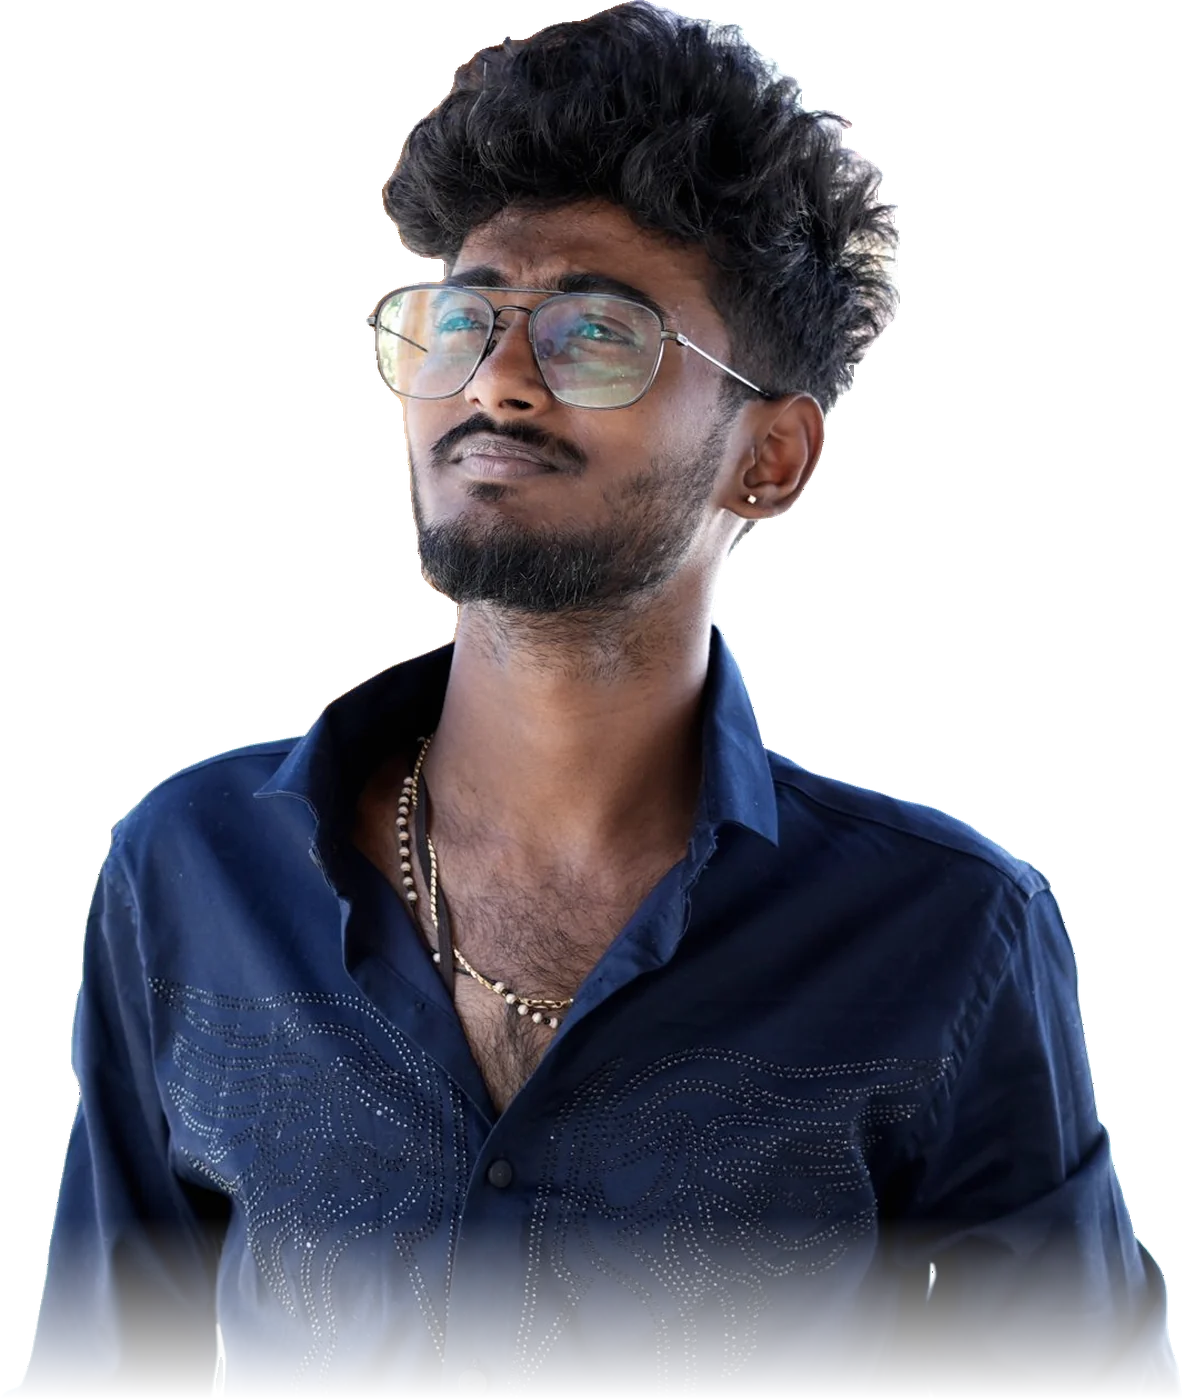
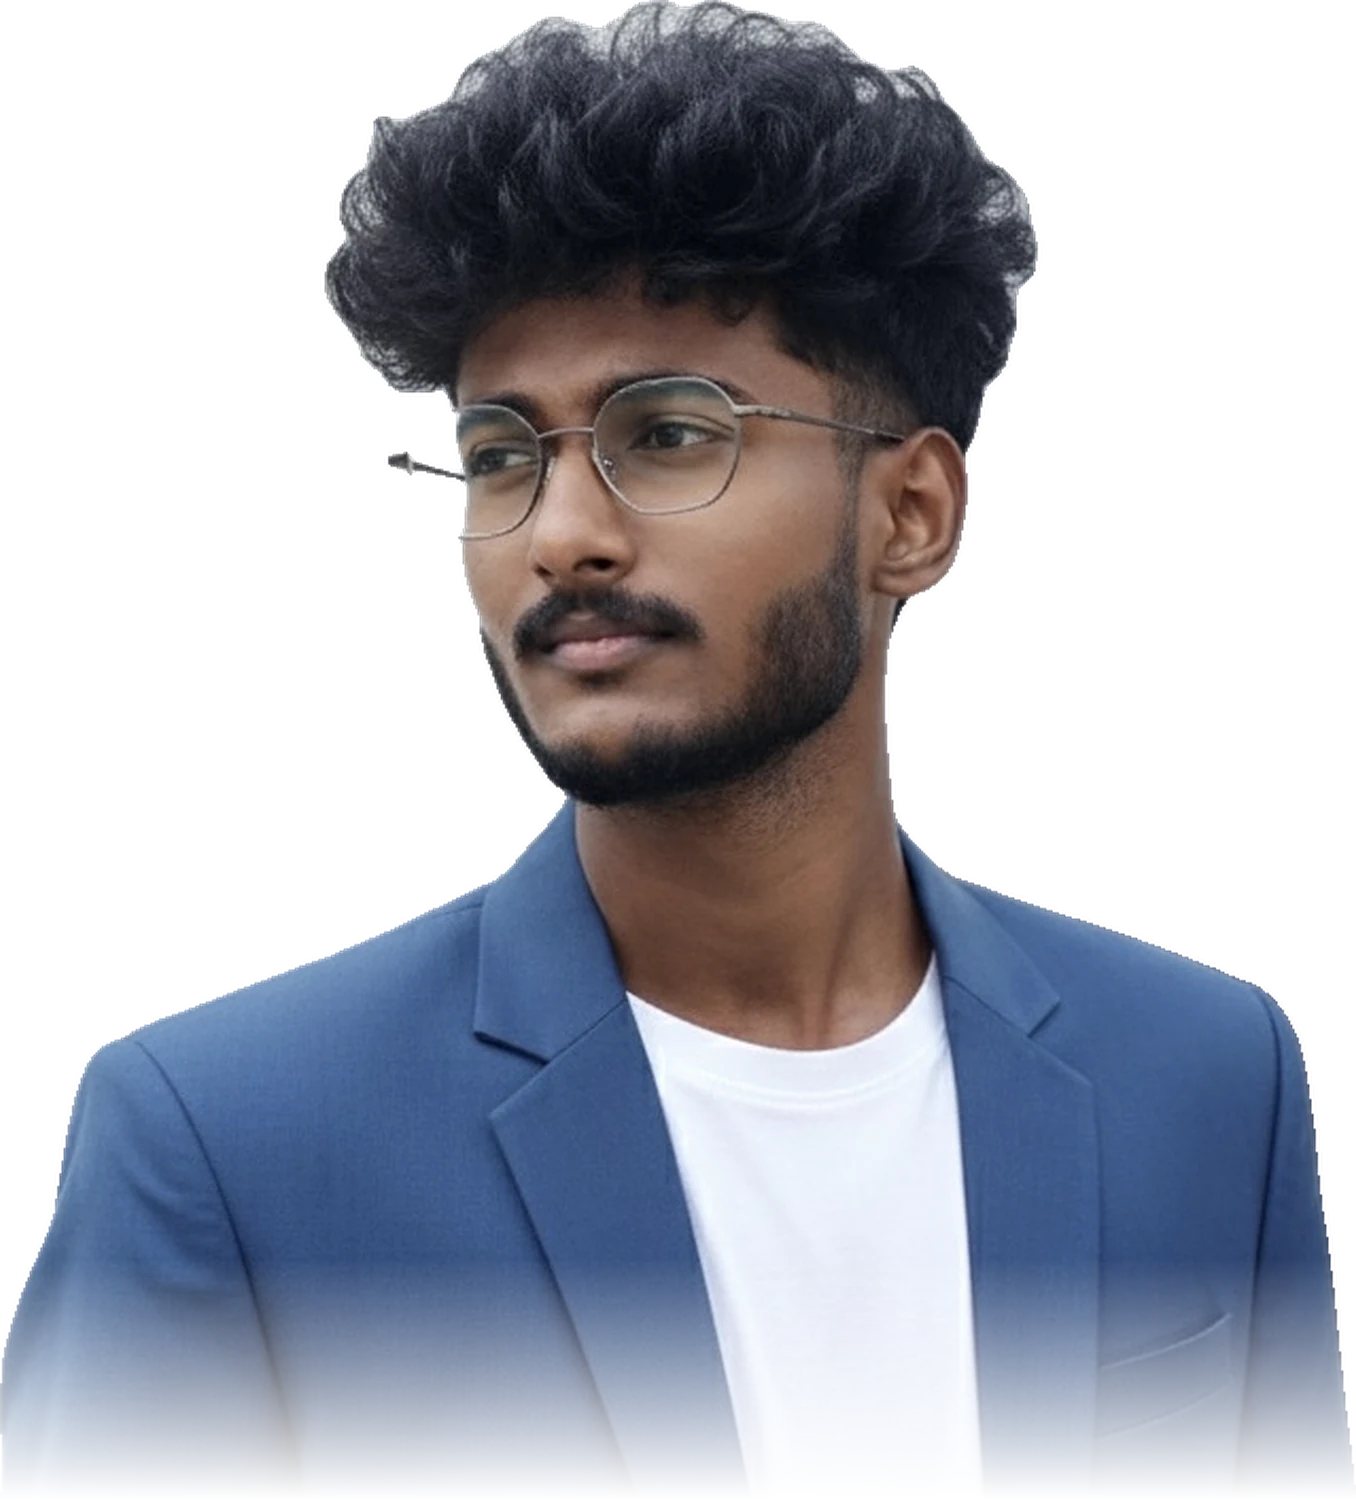
Use professional blazer portrait in hero, About and share image
Claude-Session: https://claude.ai/code/session_01Ej94n2qpD9nrdt9CznHYUQ

diff --git a/assets/css/site.css b/assets/css/site.css
@@ -219,7 +219,7 @@ html:not(.js) .curtain,html:not(.js) .intro{display:none}
 /* ---------- about ---------- */
 .about-grid{display:grid;grid-template-columns:minmax(0,5fr) minmax(0,6fr);gap:clamp(40px,7vw,120px);align-items:center}
 .portrait{position:relative;aspect-ratio:4/5;overflow:hidden;background:radial-gradient(70% 60% at 50% 35%,rgba(89,230,220,.16),transparent 70%),linear-gradient(180deg,#0f1416,#08090a);border:1px solid var(--line)}
-.portrait img{position:absolute;left:50%;bottom:0;height:96%;width:auto;max-width:none;transform:translateX(-50%)}
+.portrait img{position:absolute;left:50%;bottom:0;width:108%;height:auto;max-width:none;transform:translateX(-50%)}
 .portrait .mono{position:absolute;left:18px;top:16px}
 .portrait:after{content:"";position:absolute;inset:auto 0 0 0;height:30%;background:linear-gradient(transparent,#08090a)}
 .about-copy .big{font:600 clamp(24px,2.6vw,40px)/1.18 var(--display);letter-spacing:-.035em}
@@ -353,5 +353,5 @@ html:not(.js) .curtain,html:not(.js) .intro{display:none}
 .menu-open .site-header{backdrop-filter:none;-webkit-backdrop-filter:none;background:transparent;border-color:transparent}
 /* phones: a dark scrim keeps the hero copy readable over the light rays */
 @media (max-width:800px){
-  .hero:after{content:"";position:absolute;inset:0;z-index:2;pointer-events:none;background:linear-gradient(180deg,transparent 22%,rgba(8,9,10,.55) 42%,rgba(8,9,10,.92) 70%)}
+  .hero:after{content:"";position:absolute;inset:0;z-index:2;pointer-events:none;background:linear-gradient(180deg,transparent 36%,rgba(8,9,10,.6) 52%,rgba(8,9,10,.94) 72%)}
 }

diff --git a/assets/js/hero.js b/assets/js/hero.js
@@ -115,9 +115,10 @@
     if (cv.width!==W||cv.height!==H){ cv.width=fx.width=W; cv.height=fx.height=H; }
     const asp=W/H;
     // Jagan stands on the right, where the orb used to float
-    const ph = narrow()? .56 : .86, pw = ph*(img.naturalWidth/img.naturalHeight)/asp;
-    const PR=[ narrow()? 1-pw*.92 : 1-pw-.03, 0, pw, ph ];
-    const L=[PR[0]+pw*.54+mouse.sx*.04, ph*.89-mouse.sy*.03];    // behind his head (measured from the cutout)
+    const ph = narrow()? .42 : .8, pw = ph*(img.naturalWidth/img.naturalHeight)/asp;
+    const PR = narrow() ? [ .5-pw/2, .47, pw, ph ]      // phones: portrait in the top half, copy below
+                       : [ 1-pw-.03, 0, pw, ph ];
+    const L=[PR[0]+pw*.50+mouse.sx*.04, PR[1]+ph*.84-mouse.sy*.03];    // behind his head (measured from the cutout)
 
     // choreography
     if (t>.35 && !struck){ struck=true; strike(2,L[0]*W,W,H); }

diff --git a/index.html b/index.html
@@ -164,7 +164,7 @@
       <div class="blade" aria-hidden="true"></div>
       <div class="about-grid">
         <figure class="portrait reveal" style="margin:0">
-          <img src="assets/img/jagan-profile.webp" alt="Portrait of Jagan A." loading="lazy" width="760" height="1300">
+          <img src="assets/img/jagan-about.webp" alt="Portrait of Jagan A. in a blue blazer" loading="lazy" width="995" height="1100">
           <span class="mono">Jagan A. — Chennai</span>
         </figure>
         <div class="about-copy">
